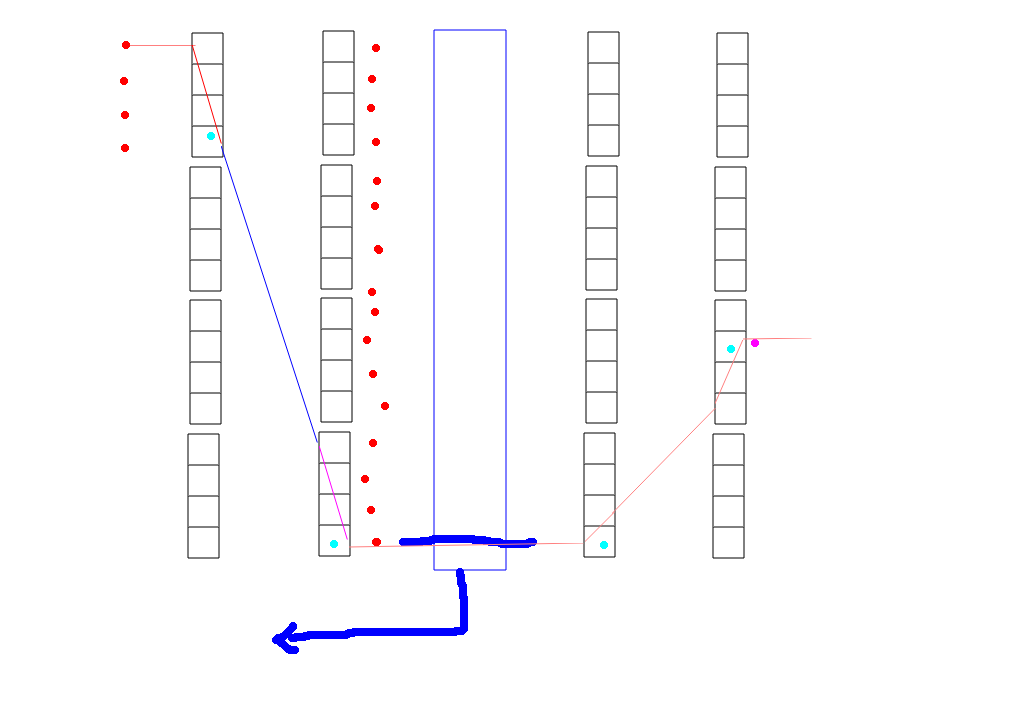
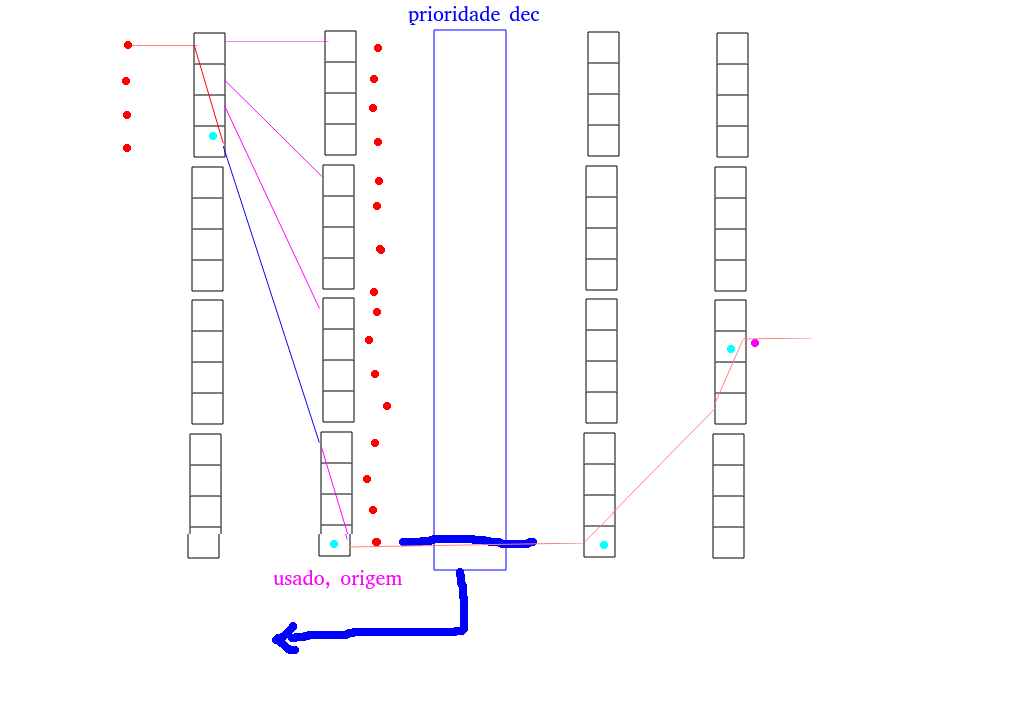
creating the network connection pattern

diff --git a/src/omega_p_f.py b/src/omega_p_f.py
@@ -1,49 +1,115 @@
-from layer_p_f import Layer_p_f
+from layer import Layer
 from layer_p_f_e import Layer_p_f_e
-from math import ceil, log
+from priority_encoder import Priority_encoder
+from math import ceil, log, log2
 
-# Omea network path finder
+# Omega network path finder
 
 
 class Omega_p_f:
     def __init__(self, n_input: int = 16, radix: int = 4, n_extra_layers: int = 2):
-        self.config = []
-        self.n_layers = ceil()
-        self.layers_p_f = [Layer_p_f() for i in range(self.n_layers)]
-        self.layers_p_f_e = [Layer_p_f_e() for i in range(self.n_layers)]
+        self.omega_config = []
+        self.n_input = n_input
+        self.radix = radix
+        self.n_extra_layers = n_extra_layers
+        self.n_layers = ceil(log(n_input, radix))
 
-    def set_config(self, config: list(list(list(list())))):
-        self.config = config
+        self.switch_conf_bits = ceil(log2(radix))
+        self.window_bits = ceil(log2(n_input))
+        self.extra_layers_bits = self.switch_conf_bits * self.n_extra_layers
+        self.total_cofig_bits = (self.window_bits * 2) + self.extra_layers_bits
 
-    def exec(self, input: list()) -> list(list()):
-        N_LAYERS = self.n_layers
-        data = input.copy()
-        for l in range(N_LAYERS):
+        self.layers_p_f = [Layer(
+            self.n_input, self.radix, self.window_bits) for i in range(self.n_layers)]
+        self.layers_p_f_e = [Layer_p_f_e(
+            self.n_input, self.radix, self.window_bits) for i in range(self.n_extra_layers)]
+        self.priority_encoder_p_f = Priority_encoder(self.n_input)
+
+    def set_omega_config(self, omega_config: list(list(list(list())))):
+        self.omega_config = omega_config
+
+    def path_finder(self, source: int = 0, target: int = 0) -> tuple():
+        n_input = self.n_input
+        n_layers = self.n_layers
+        window_bits = self.window_bits
+
+        source_data = [0 for i in range(n_input)]
+        source_data[source] = 1
+        for l in range(n_layers):
             la = self.layers_p_f[l]
-            la.set_config(self.config[l])
-            data = la.exec(data)
-        return data
+            la.set_layer_config(self.omega_config[l])
+            source_data = la.exec(source_data)
+
+        target_data = [0 for i in range(n_input)]
+        target_data[target] = 1
+        n_extra_layers = self.n_extra_layers
+        for l in range(n_extra_layers-1, 0-1, -1):
+            la = self.layers_p_f_e[l]
+            la.set_layer_config(self.omega_config[l + n_layers])
+            target_data = la.exec(target_data)
+
+        v, idx = self.priority_encoder_p_f.exec(source_data, target_data)
+        path_config = source << (3 * window_bits)
+        path_config |= idx << window_bits
+        path_config |= target
+        return v, path_config
 
 
-config = [
-    [
-        [[1, 0], [1, 1], [0, 0], [0, 0]], [[0, 0], [0, 0], [0, 0], [0, 0]],
-        [[0, 0], [0, 0], [0, 0], [0, 0]], [[0, 0], [0, 0], [0, 0], [0, 0]]
-    ],
-    [
-        [[1, 0], [1, 1], [0, 0], [0, 0]], [[0, 0], [0, 0], [0, 0], [0, 0]],
-        [[0, 0], [0, 0], [0, 0], [0, 0]], [[0, 0], [0, 0], [0, 0], [0, 0]]
-    ],
-    [
-        [[1, 0], [1, 1], [0, 0], [0, 0]], [[0, 0], [0, 0], [0, 0], [0, 0]],
-        [[0, 0], [0, 0], [0, 0], [0, 0]], [[0, 0], [0, 0], [0, 0], [0, 0]]
-    ],
-    [
-        [[1, 0], [1, 1], [0, 0], [0, 0]], [[0, 0], [0, 0], [0, 0], [0, 0]],
-        [[0, 0], [0, 0], [0, 0], [0, 0]], [[0, 0], [0, 0], [0, 0], [0, 0]]
-    ]
-]
-input = [1, 0, 0, 0, 0, 0, 0, 0, 0, 0, 0, 0, 0, 0, 0, 0]
-o = Omega_p_f()
-o.set_config(config)
-print(o.exec(input))
+if __name__ == "__main__":
+    n_input = 16
+    radix = 4
+    n_extra_layers = 2
+
+    opf = Omega_p_f(n_input, radix, n_extra_layers)
+
+    n_layers = opf.n_layers
+    switch_conf_bits = opf.switch_conf_bits
+    window_bits = opf.window_bits
+    extra_layers_bits = opf.extra_layers_bits
+    total_cofig_bits = opf.total_cofig_bits
+    n_switches_layer = opf.layers_p_f[0].n_switch
+
+    window_mask = opf.layers_p_f[0].window_mask
+    block_mask = window_mask
+    n_switch_mask = 0
+    for i in range(switch_conf_bits):
+        n_switch_mask = n_switch_mask << 1 | 1
+        block_mask = block_mask << 1 | 1
+    window_mask_s = bin(window_mask)
+    block_mask_s = bin(block_mask)
+    n_switch_mask_s = bin(n_switch_mask)
+
+    sources = [i for i in range(n_input)]
+    targets = sources.copy()
+
+    targets[0] = 9
+    targets[9] = 0
+
+    omega_config = []
+    for l in range(n_layers + n_extra_layers):
+        omega_config.append([])
+        for s in range(n_switches_layer):
+            omega_config[l].append([])
+            for r in range(radix):
+                omega_config[l][s].append([0, 0])
+
+    for i in range(n_input):
+        opf.set_omega_config(omega_config)
+        v, path_config = opf.path_finder(sources[i], targets[i])
+        if not v:
+            print("impossible routing")
+            exit()
+        path_config_s = bin(path_config)
+        layer_counter = 0
+        for l in range(total_cofig_bits, window_bits + switch_conf_bits - 1, -switch_conf_bits):
+            block = path_config >> l - window_bits - switch_conf_bits
+            blocks = bin(block)
+            in_n = block >> window_bits & n_switch_mask
+            in_s = bin(in_n)
+            switch_n = block >> switch_conf_bits & n_switch_mask
+            switch_n_s = bin(switch_n)
+            switch_out = block & n_switch_mask
+            switch_out_s = bin(switch_out)
+            omega_config[layer_counter][switch_n][switch_out][0] = 1
+            omega_config[layer_counter][switch_n][switch_out][1] = in_n
+            layer_counter += 1

diff --git a/src/layer_p_f_e.py b/src/layer_p_f_e.py
@@ -1,40 +1,24 @@
-from switch_p_f import Switch_p_f
+from layer import Layer
+from switch_p_f_e import Switch_p_f_e
 from math import log2, ceil
 
 # Layer path finder extra layer
 
 
-class Layer_p_f_e:
-    def __init__(self, n_input: int = 16, radix: int = 4):
-        self.config = []
-        self.n_input = n_input
-        self.n_switch = ceil(log2(n_input))
-        self.radix = radix
-        self.switches = [Switch_p_f(radix) for i in range(self.n_switch)]
+class Layer_p_f_e(Layer):
 
-    def set_config(self, config: list(list(list()))):
-        self.config = config
+    def __init__(self, n_input: int = 16, radix: int = 4, window_bits: int = 4):
+        super().__init__(n_input, radix, window_bits)
+        self.switches = [Switch_p_f_e(radix) for i in range(self.n_switch)]
 
-    def exec(self, input: list()) -> list(list()):
+    def exec(self, output: list()) -> list(list()):
         n_switch = self.n_switch
         radix = self.radix
-        shuffled_input = self.shuffled_input(input)
-        output = []
+        input = []
         for s in range(n_switch):
             sw = self.switches[s]
-            sw.set_config(self.config[s])
+            sw.set_switch_config(self.layer_config[s])
             offset = s * radix
-            tmp = sw.exec(shuffled_input[offset:offset + radix])
-            output = output + tmp
-        return output
-
-    def shuffle_input(self, input: list(list())):
-        radix = self.radix
-        sh = ceil(log2(radix))
-        shuffled_input = []
-        for i in range(len(input)):
-            msb = i << sh
-            lsb = i >> (radix - sh)
-            idx = msb | lsb
-            shuffled_input[idx] = input[i]
-        return shuffled_input
+            tmp = sw.exec(output[offset:offset + radix])
+            input = input + tmp
+        return self.shuffle_input(input)

diff --git a/src/layer.py b/src/layer.py
@@ -1,0 +1,46 @@
+from switch import Switch
+from math import log2, ceil
+
+# Layer path finder
+
+
+class Layer:
+    def __init__(self, n_input: int = 16, radix: int = 4, window_bits: int = 4):
+        self.layer_config = []
+        self.n_input = n_input
+        self.radix = radix
+        self.window_bits = window_bits
+        self.n_switch = n_input//radix  # ceil(log2(n_input))
+        self.sh = ceil(log2(radix))
+        self.switches = [Switch(radix) for i in range(self.n_switch)]
+        self.window_mask = 0
+        for i in range(self.window_bits):
+            self.window_mask = self.window_mask << 1 | 1
+
+    def set_layer_config(self, layer_config: list(list(list()))):
+        self.layer_config = layer_config
+
+    def exec(self, input: list()) -> list(list()):
+        n_switch = self.n_switch
+        radix = self.radix
+        shuffled_input = self.shuffle_input(input)
+        output = []
+        for s in range(n_switch):
+            sw = self.switches[s]
+            sw.set_switch_config(self.layer_config[s])
+            offset = s * radix
+            tmp = sw.exec(shuffled_input[offset:offset + radix])
+            output = output + tmp
+        return output
+
+    def shuffle_input(self, input: list(list())):
+        mask = self.window_mask
+        radix = self.radix
+        sh = self.sh
+        shuffled_input = [None for i in range(len(input))]
+        for i in range(len(input)):
+            msw = (i << sh) & mask
+            lsw = i >> (radix - sh)
+            idx = msw | lsw
+            shuffled_input[idx] = input[i]
+        return shuffled_input

diff --git a/src/switch_p_f_e.py b/src/switch_p_f_e.py
@@ -1,20 +1,18 @@
+from switch import Switch
+
 # switch path fider extra layer
-class Switch_p_f:
-    def __init__(self, radix: int = 4):
-        self.config = []
-        self.radix = radix
 
-    def set_config(self, config: list(list())):
-        self.config = config
 
-    def exec(self, input: list()) -> list():
+class Switch_p_f_e(Switch):
+
+    def exec(self, output: list()) -> list():
         radix = self.radix
-        output = [0 for i in range(radix)]
+        input = [0 for i in range(radix)]
         for i in range(radix):
-            if input[i] == 1:
+            if output[i] == 1:
                 for o in range(radix):
                     # primeira condicao: saida livre
                     # segunda condicao: saida ocupada, mas multicast permitido
-                    if self.config[o][0] == 0 or (self.config[o][0] == 1 and self.config[o][1] == i):
-                        output[o] = 1
-        return output
+                    if self.switch_config[o][0] == 0:
+                        input[o] = 1
+        return input

diff --git a/src/switch.py b/src/switch.py
@@ -1,11 +1,11 @@
 # switch path fider
-class Switch_p_f:
+class Switch:
     def __init__(self, radix: int = 4):
-        self.config = []
+        self.switch_config = []
         self.radix = radix
 
-    def set_config(self, config: list(list())):
-        self.config = config
+    def set_switch_config(self, switch_config: list(list())):
+        self.switch_config = switch_config
 
     def exec(self, input: list()) -> list():
         radix = self.radix
@@ -15,6 +15,6 @@ class Switch_p_f:
                 for o in range(radix):
                     # primeira condicao: saida livre
                     # segunda condicao: saida ocupada, mas multicast permitido
-                    if self.config[o][0] == 0 or (self.config[o][0] == 1 and self.config[o][1] == i):
+                    if self.switch_config[o][0] == 0 or (self.switch_config[o][0] == 1 and self.switch_config[o][1] == i):
                         output[o] = 1
         return output

diff --git a/src/priority_encoder.py b/src/priority_encoder.py
@@ -1,0 +1,11 @@
+# priority encoder path finder
+class Priority_encoder:
+    def __init__(self, n_input: int = 16):
+        self.n_input = n_input
+
+    def exec(self, input_left: list(), input_right: list()) -> tuple():
+        n_input = self.n_input
+        for i in range(n_input-1, 0-1, -1):
+            if input_left[i] == 1 and input_right[i] == 1:
+                return (True, i)
+        return False, 0
